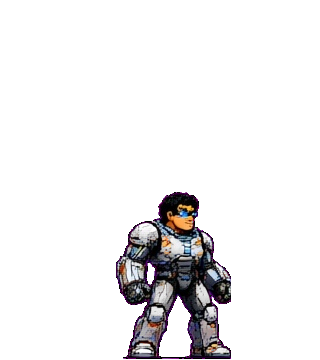
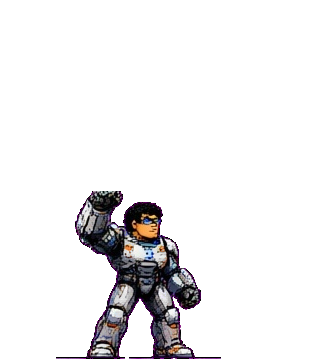
Corrige Dev Veterano todo bugado: grid real da folha reformulada e 4x5, nao 5x8
Causa raiz (verificacao extensa): a folha reformulada tem layout 4 colunas x
5 linhas (20 figuras completas), mas a ferramenta assumia as bandas 5x8 da
folha antiga — o recorte FATIAVA as figuras (so cabeca, so pernas, corpo
parcial) em crouch/cpunch/ckick/jpunch/jkick/hit/ko. Era o 'todo bugado'.

Correcao no tools/integrate_dev_veterano.py:
- bandas reais detectadas por projecao de alpha: linhas 7-177/198-347/
  368-520/541-683/705-874, colunas 24-258/341-513/611-845/905-1107
- mapeamento novo com as 20 figuras completas:
  r0 andar/andar/correr/pular | r1 agachar/block/block/soco
  r2 chute/tiro/tiro/tiro | r3 tiro/hit/deitado/agachar | r4 idle x3/vitoria
- shake sintetico nas poses de celula unica: zero frames congelados
- face/retrato do idle r4c0

Verificacao: 15 poses auditadas visualmente uma a uma (14 OK + ko
confirmado deitado no zoom), ancoragem OK nas 60 celulas, jogo rodando com
figura completa e limpa, combat PASS, sprite_audit LIMPA.
Cache-buster: v12f-devvet-v2 -> v12g-devvet-fix.

Changed region(s): [[0.1875, 0.5194, 0.7188, 1.0]]

diff --git a/index.html b/index.html
@@ -22,9 +22,9 @@
     })().catch((error) => console.warn('Cache cleanup failed:', error));
   </script>
   <link rel="icon" type="image/png" href="assets/share/favicon.png" />
-  <link rel="stylesheet" href="css/style.css?v=v12f-devvet-v2" />
-  <link rel="stylesheet" href="css/account.css?v=v12f-devvet-v2" />
-  <link rel="stylesheet" href="css/mobile.css?v=v12f-devvet-v2" />
+  <link rel="stylesheet" href="css/style.css?v=v12g-devvet-fix" />
+  <link rel="stylesheet" href="css/account.css?v=v12g-devvet-fix" />
+  <link rel="stylesheet" href="css/mobile.css?v=v12g-devvet-fix" />
 </head>
 <body>
   <div id="loader" role="status" aria-live="polite">
@@ -365,7 +365,7 @@
     </div>
   </div>
 
-  <script src="assets/sprites/layout.js?v=v12f-devvet-v2"></script>
+  <script src="assets/sprites/layout.js?v=v12g-devvet-fix"></script>
   <script>
     /* Blindagem contra layout.js velho em cache: os arquivos de dados
        (fighters-v7..v11) escrevem em SPRITE_LAYOUT.files / .perFighter,
@@ -389,50 +389,50 @@
       }
     })();
   </script>
-  <script src="assets/stages/sheets.js?v=v12f-devvet-v2"></script>
-  <script src="assets/maps/anim.js?v=v12f-devvet-v2"></script>
-  <script src="js/core/profile.js?v=v12f-devvet-v2"></script>
-  <script src="js/config/firebase-config.js?v=v12f-devvet-v2"></script>
-  <script src="js/core/cloud.js?v=v12f-devvet-v2"></script>
-  <script src="js/config/supabase-config.js?v=v12f-devvet-v2"></script>
+  <script src="assets/stages/sheets.js?v=v12g-devvet-fix"></script>
+  <script src="assets/maps/anim.js?v=v12g-devvet-fix"></script>
+  <script src="js/core/profile.js?v=v12g-devvet-fix"></script>
+  <script src="js/config/firebase-config.js?v=v12g-devvet-fix"></script>
+  <script src="js/core/cloud.js?v=v12g-devvet-fix"></script>
+  <script src="js/config/supabase-config.js?v=v12g-devvet-fix"></script>
   <script src="js/vendor/supabase-2.118.0.js"></script>
-  <script src="js/core/supabase-cloud.js?v=v12f-devvet-v2"></script>
-  <script src="js/data/fighters.js?v=v12f-devvet-v2"></script>
-  <script src="js/data/fighters-v10.js?v=v12f-devvet-v2"></script>
-  <script src="js/data/fighters-v11.js?v=v12f-devvet-v2"></script>
-  <script src="js/data/powers.js?v=v12f-devvet-v2"></script>
-  <script src="js/data/powers-turbo.js?v=v12f-devvet-v2"></script>
-  <script src="js/data/powers-v4.js?v=v12f-devvet-v2"></script>
-  <script src="js/data/powers-v5.js?v=v12f-devvet-v2"></script>
-  <script src="js/data/powers-v6.js?v=v12f-devvet-v2"></script>
-  <script src="js/data/powers-balance-v6.js?v=v12f-devvet-v2"></script>
-  <script src="js/data/powers-v7.js?v=v12f-devvet-v2"></script>
-  <script src="js/data/powers-v8.js?v=v12f-devvet-v2"></script>
-  <script src="js/data/powers-v9.js?v=v12f-devvet-v2"></script>
-  <script src="js/data/powers-v10.js?v=v12f-devvet-v2"></script>
-  <script src="js/data/powers-v11.js?v=v12f-devvet-v2"></script>
-    <script src="js/data/fighters-v12.js?v=v12f-devvet-v2"></script>
-  <script src="js/data/pets.js?v=v12f-devvet-v2"></script>
-  <script src="js/data/stages.js?v=v12f-devvet-v2"></script>
-  <script src="js/engine/sprites.js?v=v12f-devvet-v2"></script>
-  <script src="js/engine/fx.js?v=v12f-devvet-v2"></script>
-  <script src="js/engine/audio.js?v=v12f-devvet-v2"></script>
-  <script src="js/engine/input.js?v=v12f-devvet-v2"></script>
-  <script src="js/ui/viewport.js?v=v12f-devvet-v2"></script>
-  <script src="js/engine/projectile.js?v=v12f-devvet-v2"></script>
-  <script src="js/engine/fighter.js?v=v12f-devvet-v2"></script>
-  <script src="js/engine/weather.js?v=v12f-devvet-v2"></script>
-  <script src="js/engine/mechanics.js?v=v12f-devvet-v2"></script>
-  <script src="js/engine/stage.js?v=v12f-devvet-v2"></script>
-  <script src="js/engine/ai.js?v=v12f-devvet-v2"></script>
-  <script src="js/engine/game.js?v=v12f-devvet-v2"></script>
+  <script src="js/core/supabase-cloud.js?v=v12g-devvet-fix"></script>
+  <script src="js/data/fighters.js?v=v12g-devvet-fix"></script>
+  <script src="js/data/fighters-v10.js?v=v12g-devvet-fix"></script>
+  <script src="js/data/fighters-v11.js?v=v12g-devvet-fix"></script>
+  <script src="js/data/powers.js?v=v12g-devvet-fix"></script>
+  <script src="js/data/powers-turbo.js?v=v12g-devvet-fix"></script>
+  <script src="js/data/powers-v4.js?v=v12g-devvet-fix"></script>
+  <script src="js/data/powers-v5.js?v=v12g-devvet-fix"></script>
+  <script src="js/data/powers-v6.js?v=v12g-devvet-fix"></script>
+  <script src="js/data/powers-balance-v6.js?v=v12g-devvet-fix"></script>
+  <script src="js/data/powers-v7.js?v=v12g-devvet-fix"></script>
+  <script src="js/data/powers-v8.js?v=v12g-devvet-fix"></script>
+  <script src="js/data/powers-v9.js?v=v12g-devvet-fix"></script>
+  <script src="js/data/powers-v10.js?v=v12g-devvet-fix"></script>
+  <script src="js/data/powers-v11.js?v=v12g-devvet-fix"></script>
+    <script src="js/data/fighters-v12.js?v=v12g-devvet-fix"></script>
+  <script src="js/data/pets.js?v=v12g-devvet-fix"></script>
+  <script src="js/data/stages.js?v=v12g-devvet-fix"></script>
+  <script src="js/engine/sprites.js?v=v12g-devvet-fix"></script>
+  <script src="js/engine/fx.js?v=v12g-devvet-fix"></script>
+  <script src="js/engine/audio.js?v=v12g-devvet-fix"></script>
+  <script src="js/engine/input.js?v=v12g-devvet-fix"></script>
+  <script src="js/ui/viewport.js?v=v12g-devvet-fix"></script>
+  <script src="js/engine/projectile.js?v=v12g-devvet-fix"></script>
+  <script src="js/engine/fighter.js?v=v12g-devvet-fix"></script>
+  <script src="js/engine/weather.js?v=v12g-devvet-fix"></script>
+  <script src="js/engine/mechanics.js?v=v12g-devvet-fix"></script>
+  <script src="js/engine/stage.js?v=v12g-devvet-fix"></script>
+  <script src="js/engine/ai.js?v=v12g-devvet-fix"></script>
+  <script src="js/engine/game.js?v=v12g-devvet-fix"></script>
   <script src="js/vendor/peerjs.min.js"></script>
-  <script src="js/net/room-core.js?v=v12f-devvet-v2"></script>
-  <script src="js/net/online.js?v=v12f-devvet-v2"></script>
-  <script src="js/ui/hud.js?v=v12f-devvet-v2"></script>
-  <script src="js/ui/ui.js?v=v12f-devvet-v2"></script>
-  <script src="js/ui/account.js?v=v12f-devvet-v2"></script>
-  <script src="js/main.js?v=v12f-devvet-v2"></script>
-  <script src="js/net/tournament.js?v=v12f-devvet-v2"></script>
+  <script src="js/net/room-core.js?v=v12g-devvet-fix"></script>
+  <script src="js/net/online.js?v=v12g-devvet-fix"></script>
+  <script src="js/ui/hud.js?v=v12g-devvet-fix"></script>
+  <script src="js/ui/ui.js?v=v12g-devvet-fix"></script>
+  <script src="js/ui/account.js?v=v12g-devvet-fix"></script>
+  <script src="js/main.js?v=v12g-devvet-fix"></script>
+  <script src="js/net/tournament.js?v=v12g-devvet-fix"></script>
 </body>
 </html>

diff --git a/js/engine/sprites.js b/js/engine/sprites.js
@@ -26,8 +26,8 @@ const SpriteGen = {
   url(id) {
     const src = (SPRITE_LAYOUT.files || {})[id] || 'assets/sprites/' + id + '.png';
     // v=... serve pra invalidar cache: SEMPRE bump quando o PNG mudar.
-    // v12f-devvet-v2: Dev Veterano com a arte reformulada (grika/ash/rin/katya fora) + pulo no ar.
-    return src + '?v=v12f-devvet-v2';
+    // v12g-devvet-fix: grid real 4x5 da arte reformulada (corrige poses fatiadas) (grika/ash/rin/katya fora) + pulo no ar.
+    return src + '?v=v12g-devvet-fix';
   },
   faceUrl(id) {
     return `assets/ui/face-${id}.png?v=spritefix-4x15b`;

diff --git a/js/engine/fx.js b/js/engine/fx.js
@@ -23,7 +23,7 @@ const ART_SHEETS = {
 const Art = {
   images: {},
   url(src) {
-    return src + '?v=v12f-devvet-v2';
+    return src + '?v=v12g-devvet-fix';
   },
   load() {
     Object.entries(ART_SHEETS).forEach(([key, s]) => {

diff --git a/tools/integrate_dev_veterano.py b/tools/integrate_dev_veterano.py
@@ -29,38 +29,46 @@ SRC_AB = ROOT / 'bugs/Novos-personagens/habilidades-dev-veterano.png'
 CW, CH, BASE = 320, 260, 246
 AIR_BASE = 220
 
-ROWS = [0, 105, 200, 303, 402, 490, 556, 693, 896]
-COLS = [(5, 196), (306, 467), (581, 718), (794, 955), (1010, 1170)]
+# Grid real da folha reformulada (detectado por projecao de alpha):
+# 4 colunas x 5 linhas de figuras completas.
+ROWS = [(7, 177), (198, 347), (368, 520), (541, 683), (705, 874)]
+COLS = [(24, 258), (341, 513), (611, 845), (905, 1107)]
 MAGENTA = np.array([240, 3, 212])
 
 # pose -> (lista de índices de célula [col,row], altura alvo da arte, pé)
+# Mapeamento das 20 figuras reais (ci, ri):
+#   r0: andar, andar, correr, pular   | r1: agachar, block, block, soco
+#   r2: chute, tiro, tiro, tiro       | r3: tiro, tomando hit, deitado, agachar
+#   r4: idle, idle, idle, vitoria
 POSES = [
-    ('idle',    [(0, 0), (1, 0), (2, 0), (3, 0)], 195, BASE),
-    ('walk',    [(0, 1), (1, 1), (2, 1), (4, 1)], 185, BASE),
-    ('jump',    [(0, 6), (1, 6), (4, 6), (1, 6)], 165, AIR_BASE),
-    ('crouch',  [(0, 3), (1, 3), (2, 3), (0, 3)], 125, BASE),
-    ('punch',   [(0, 2), (1, 2), (2, 2), (4, 2)], 175, BASE),
-    ('kick',    [(0, 4), (1, 4), (2, 4), (4, 4)], 165, BASE),
-    ('cpunch',  [(4, 3), (4, 3), (4, 3), (4, 3)], 130, BASE),
-    ('ckick',   [(3, 4), (3, 4), (3, 4), (3, 4)], 150, BASE),
-    ('jpunch',  [(4, 2), (4, 2), (4, 2), (4, 2)], 170, AIR_BASE),
-    ('jkick',   [(4, 4), (4, 4), (4, 4), (4, 4)], 160, AIR_BASE),
-    ('special', [(0, 7), (1, 7), (2, 7), (3, 7)], 195, BASE),
-    ('hit',     [(4, 1), (4, 1), (4, 1), (4, 1)], 185, BASE),
-    ('block',   [(4, 0), (4, 0), (4, 0), (4, 0)], 190, BASE),
-    ('ko',      [(2, 6), (2, 6), (2, 6), (2, 6)], 76, BASE),
-    ('win',     [(4, 7), (4, 7), (4, 7), (4, 7)], 195, BASE),
+    ('idle',    [(0, 4), (1, 4), (2, 4), (1, 4)], 195, BASE),
+    ('walk',    [(0, 0), (1, 0), (2, 0), (1, 0)], 190, BASE),
+    ('jump',    [(3, 0), (3, 0), (3, 0), (3, 0)], 165, AIR_BASE),
+    ('crouch',  [(0, 1), (3, 3), (0, 1), (3, 3)], 125, BASE),
+    ('punch',   [(3, 1), (3, 1), (3, 1), (3, 1)], 175, BASE),
+    ('kick',    [(0, 2), (0, 2), (0, 2), (0, 2)], 165, BASE),
+    ('cpunch',  [(0, 1), (0, 1), (0, 1), (0, 1)], 130, BASE),
+    ('ckick',   [(3, 3), (3, 3), (3, 3), (3, 3)], 150, BASE),
+    ('jpunch',  [(3, 1), (3, 1), (3, 1), (3, 1)], 170, AIR_BASE),
+    ('jkick',   [(0, 2), (0, 2), (0, 2), (0, 2)], 160, AIR_BASE),
+    ('special', [(1, 2), (2, 2), (3, 2), (0, 3)], 195, BASE),
+    ('hit',     [(1, 3), (1, 3), (1, 3), (1, 3)], 185, BASE),
+    ('block',   [(1, 1), (2, 1), (1, 1), (2, 1)], 190, BASE),
+    ('ko',      [(2, 3), (2, 3), (2, 3), (2, 3)], 76, BASE),
+    ('win',     [(3, 4), (3, 4), (3, 4), (3, 4)], 195, BASE),
 ]
 
 # deslocamento sintetico por frame para as poses com uma unica celula:
 # evita "sprite congelado" (4 frames identicos) sem inventar pose nova.
 SHAKE = {
+    'jump': [0, 3, 0, -3],
+    'punch': [0, 4, 0, -4],
+    'kick': [0, -4, 0, 4],
     'cpunch': [0, 3, 0, -3],
     'ckick': [0, -4, 0, 4],
     'jpunch': [0, 3, -3, 0],
     'jkick': [0, -3, 3, 0],
     'hit': [0, 5, -5, 2],
-    'block': [0, -2, 0, 2],
     'win': [0, 2, 0, -2],
     'ko': [0, 4, -4, 0],
 }
@@ -73,8 +81,7 @@ def cut_cells():
     fg = ndimage.binary_closing(d > 110, structure=np.ones((3, 3)))
     cells = {}
     for ci, (cx0, cx1) in enumerate(COLS):
-        for ri in range(8):
-            y0, y1 = ROWS[ri], ROWS[ri + 1]
+        for ri, (y0, y1) in enumerate(ROWS):
             sub = fg[y0:y1, cx0:cx1]
             lab, n = ndimage.label(sub)
             if not n:
@@ -189,7 +196,7 @@ def build_abilities():
 
 
 def build_ui(cells):
-    crop, mask = cells[(1, 7)]
+    crop, mask = cells[(0, 4)]
     fig = figure_rgba(crop, mask)
     # retrato: figura inteira em 320x360
     port = Image.new('RGBA', (320, 360), (0, 0, 0, 0))
